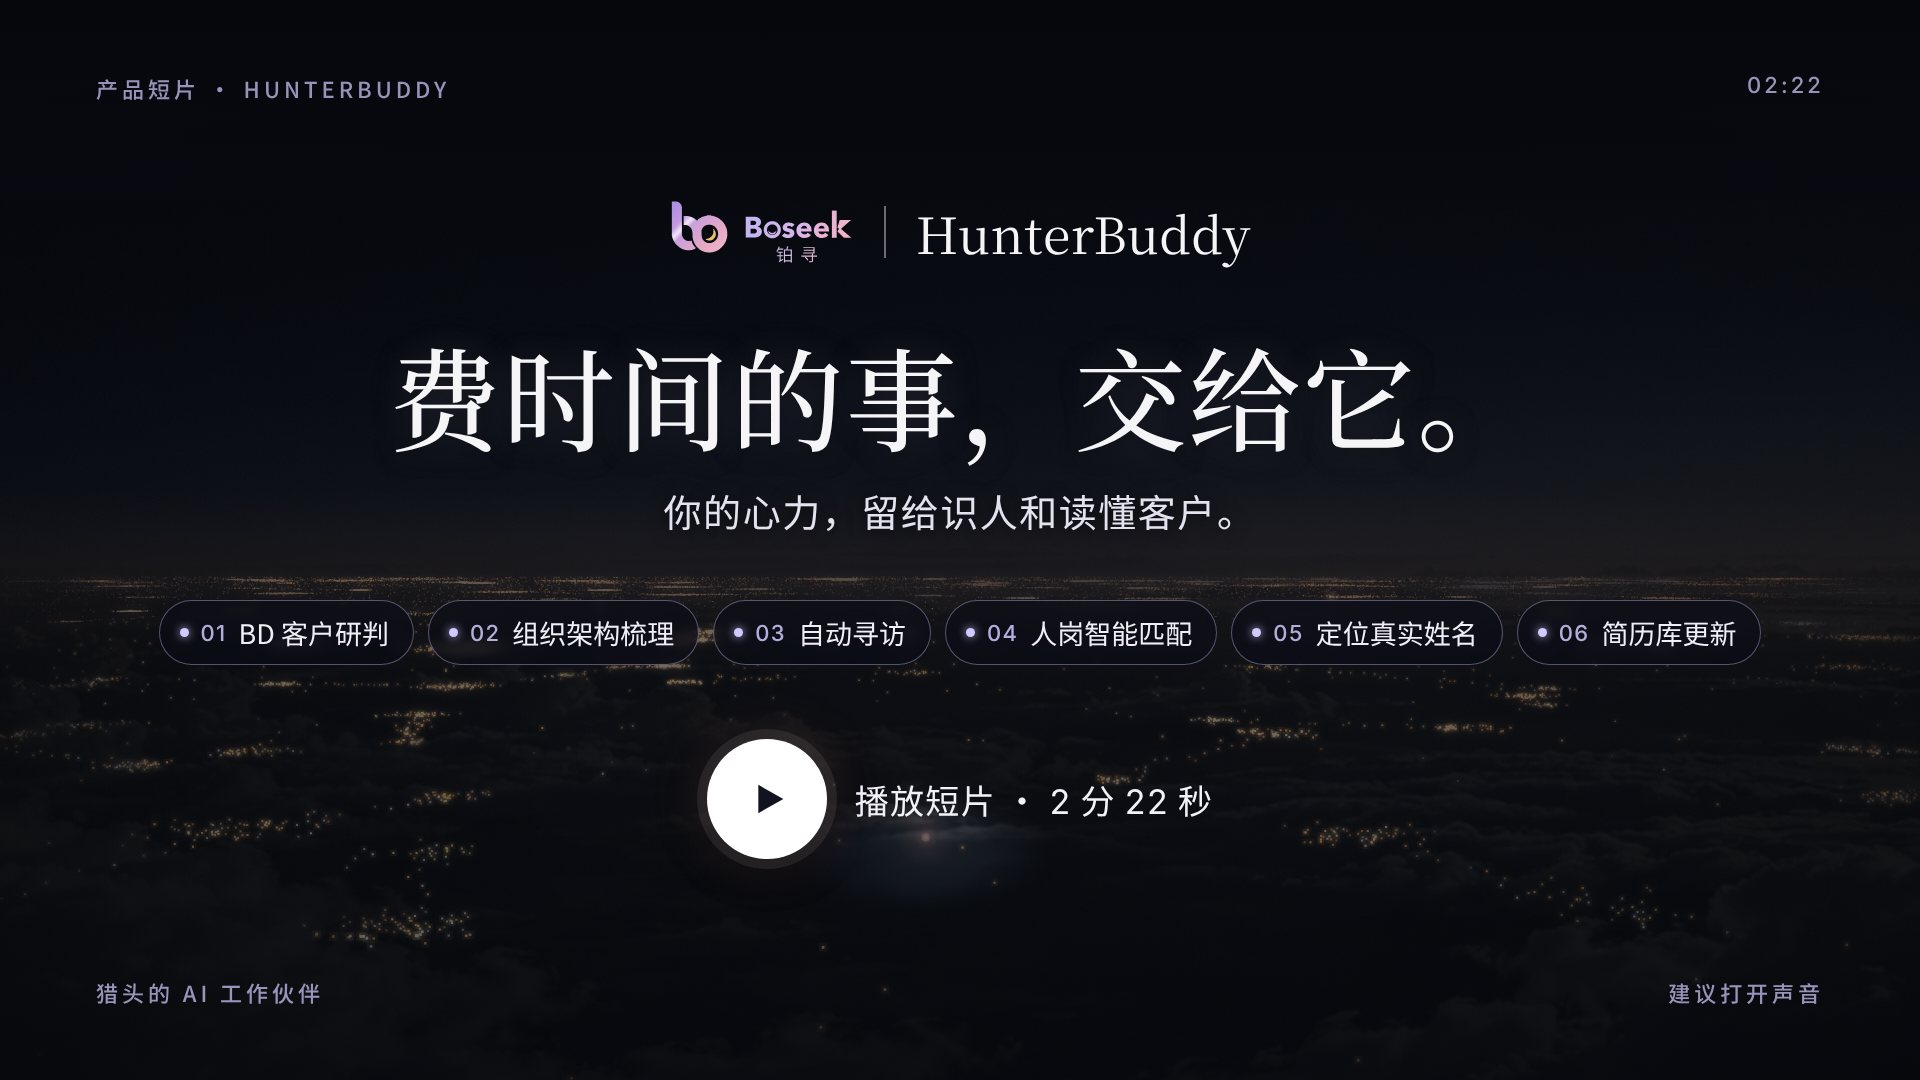
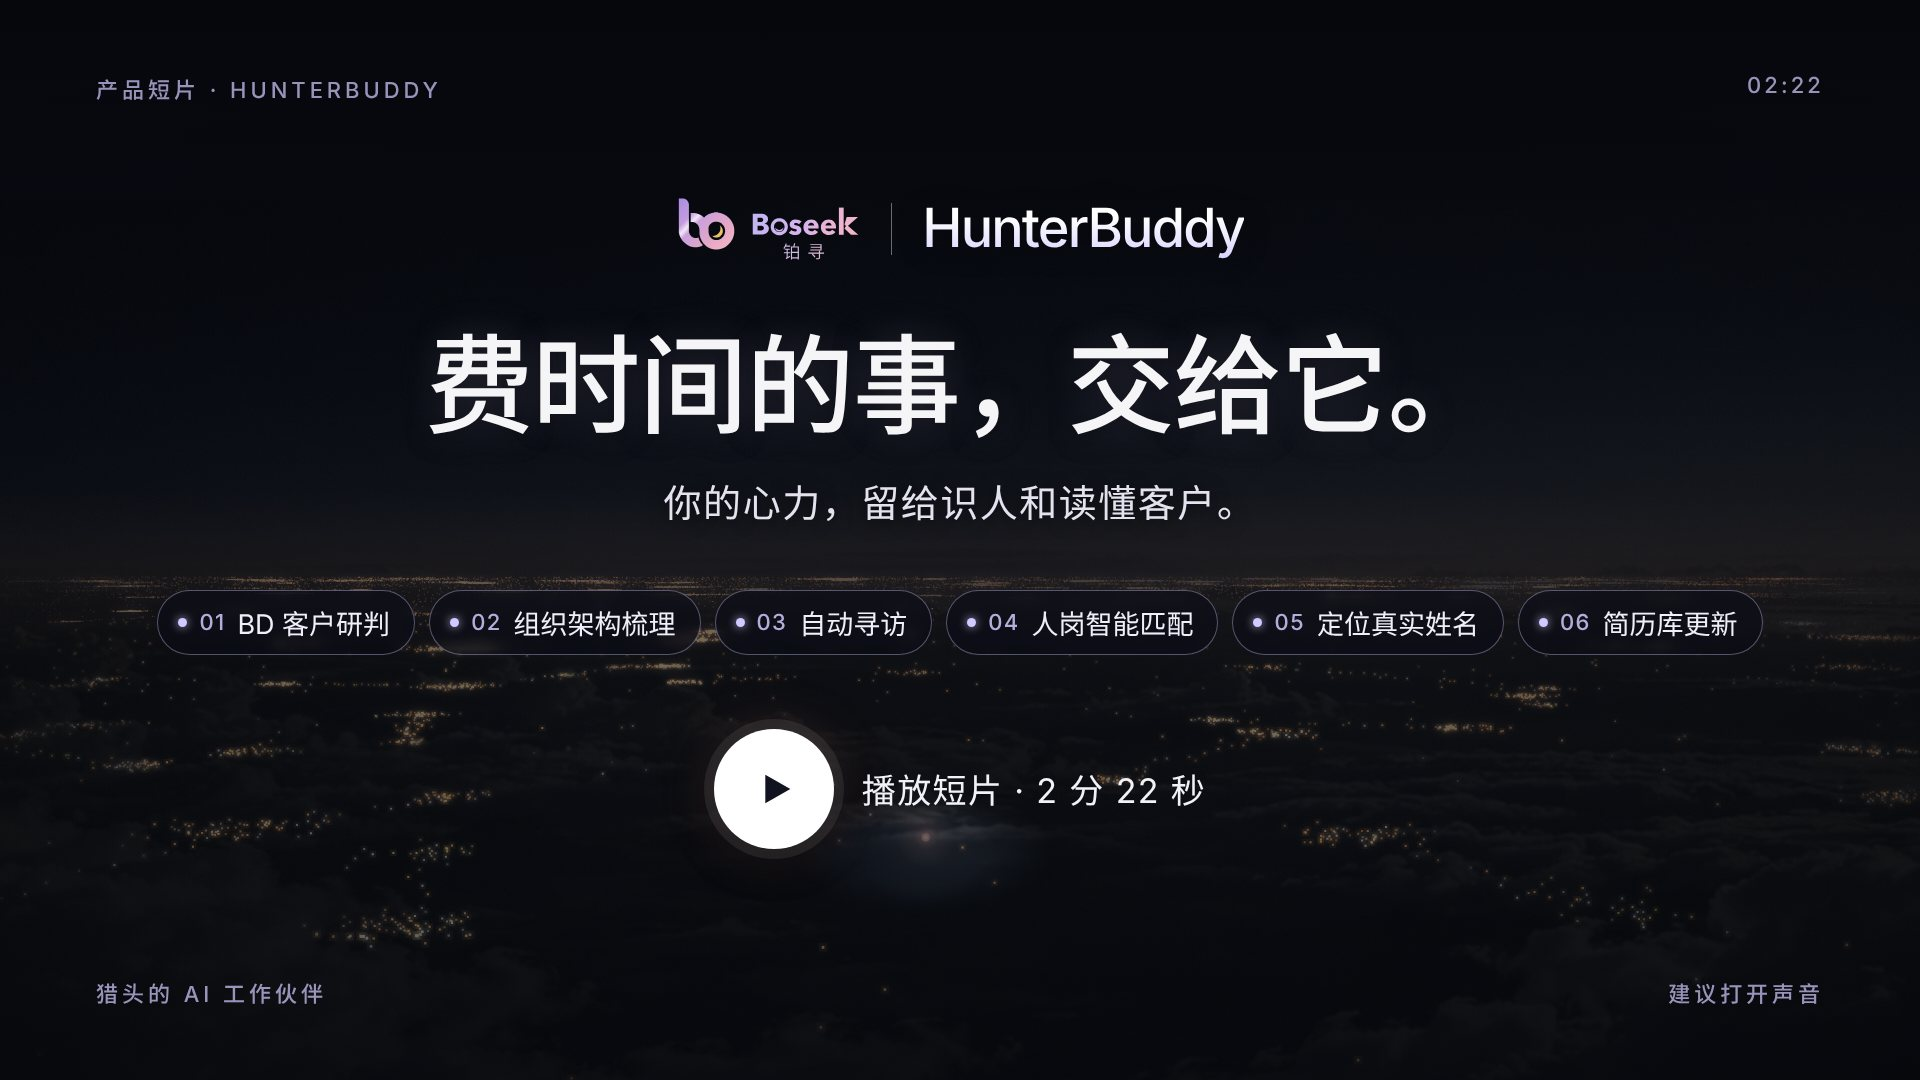
改版草稿：短片封面改用黑体（标题、HunterBuddy 字标和全文与官网一致）
Claude-Session: https://claude.ai/code/session_01NjZfRSbJ5dBR6i78M69BFX

diff --git a/public/landing-redesign/index.html b/public/landing-redesign/index.html
@@ -97,7 +97,7 @@
               controls
               preload="none"
               playsinline
-              poster="assets/film-poster.jpg?v=4"
+              poster="assets/film-poster.jpg?v=5"
               src="assets/hunterbuddy-film.mp4?v=4"
               aria-label="HunterBuddy 产品短片"
             ></video>
